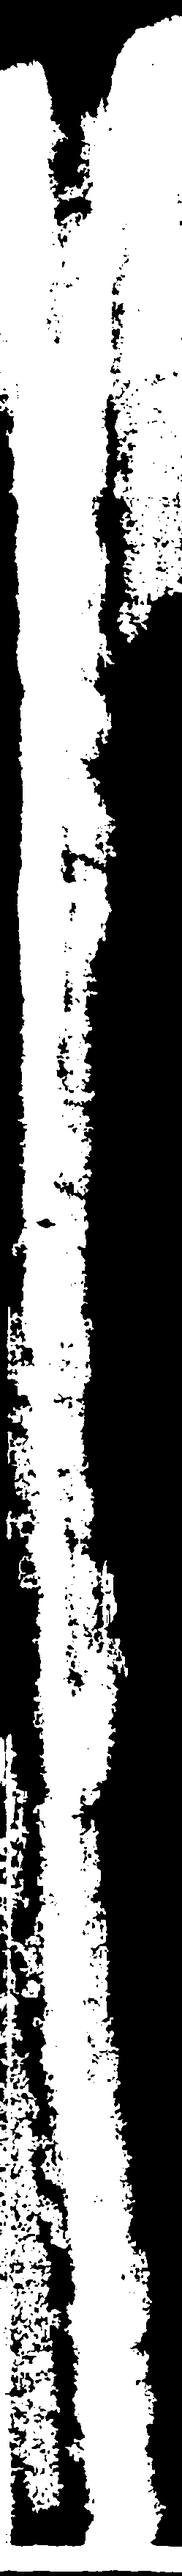
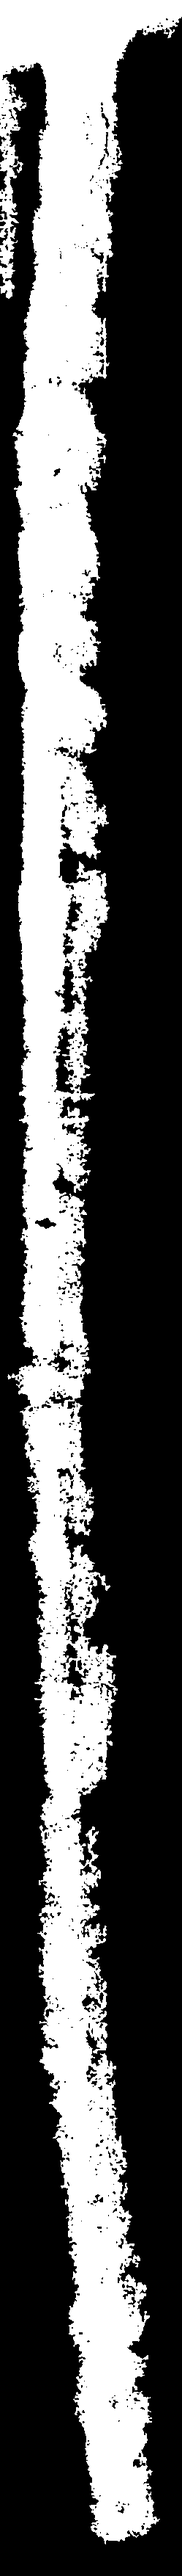
aa

Changed region(s): [[0.0, 0.0, 1.0, 1.0], [0.3092, 0.1243, 0.3373, 0.1553], [0.0843, 0.3417, 0.1124, 0.3728]]

diff --git a/house/227/test228.py b/house/227/test228.py
@@ -70,6 +70,9 @@ from scipy.ndimage.filters import gaussian_filter
 from skimage.filters import threshold_otsu
 from skimage.measure import label
 import cv2
+from skimage.data import astronaut
+from skimage.io import imsave,imread
+import copy
 
 def largestConnectComponent(bw_img):
     '''
@@ -123,12 +126,37 @@ def xdog(im, gamma=0.98, phi=200, eps=-0.1, k=1.6, sigma=0.8, binarize=False):
     imdiff = imdiff.astype('float32')
     return imdiff
 
-if __name__ == '__main__':
-    from skimage.data import astronaut
-    from skimage.io import imsave,imread
-    # im = astronaut()
-    # im = imread('D:\\testALg\\homework\\house\\227\\1-2weld.jpg')
-    im = imread('D:\\testALg\\homework\\house\\227\\1122.jpg')
+def getShape(i2):
+    s_i2 = np.sum(i2)
+    s_h_i2 = np.sum(i2,axis=0)
+    s = 0
+    times = 0
+    for i in s_h_i2:
+        if s>0.5*s_i2:
+            break
+        else:
+            s = s+i
+            times = times + 1 
+
+    # print(times)
+    # # i3 = copy.deepcopy(i2)
+    # print(np.max(i2))
+
+    i2 = np.array(i2,dtype=np.float32)
+
+    # baseLine = i2[:,times] 
+    p1 = i2[:,0:times]
+    p2 = i2[:,times+1:] 
+
+    l1 = np.sum(p1,1)
+    l2 = np.sum(p2,1)
+    res = l1 - l2
+    return res
+
+
+def process(imgPath):
+    im = imread(imgPath)
+
     im = im / 255.0
     im = xdog(im, binarize=True, k=20)
 
@@ -136,9 +164,73 @@ if __name__ == '__main__':
     # img[:,int(0.5*img.shape[1])] = 1
     lcc = largestConnectComponent(img)
     lcc = np.array(lcc,dtype=np.uint8)
-    lcc = lcc*255
+
+    return lcc
 
 
 
-    imsave('out.png', lcc)
+
+if __name__ == '__main__':
+    p1 = 'D:\\testALg\\homework\\house\\227\\1-2weld.jpg'
+    p2 = 'D:\\testALg\\homework\\house\\227\\2-3.jpg'
+
+
+    import cv2
+    import matplotlib.pyplot as plt
+
+    
+
+    
+    # im = astronaut()
+    # im = imread('D:\\testALg\\homework\\house\\227\\1-2weld.jpg')
+    # im = imread('D:\\testALg\\homework\\house\\227\\1122.jpg')
+
+    # i2 = copy.deepcopy(lcc)
+    i1,i2 = process(p1),process(p2)
+
+    
+    # lcc = lcc*255
+
+    r1 = getShape(i1)
+    r2 = getShape(i2)
+
+    from dtw import dtw,accelerated_dtw
+    # import fastDtw
+    import time
+    a1 = time.time()
+
+    r11 = r1[int(0.25*len(r1)):int(0.75*len(r1))]
+    r22 = r2[int(0.25*len(r2)):int(0.75*len(r2))]
+
+
+
+    res = cv2.matchTemplate(r1, r22, cv2.TM_CCOEFF_NORMED)
+    min_val, max_val, _, _ = cv2.minMaxLoc(res)
+
+
+    # ma = lambda r1,r2:np.abs(r1-r2)
+    # d, _,_,_ = accelerated_dtw(r11, r22, dist='euclidean')
+    a2 = time.time()
+    # print(a2-a1)
+    print(max_val)
+    # print(min_val)
+
+    # print(d)
+    
+    y = r1
+    x = np.linspace(1, len(y), len(y))
+    plt.plot(x, y, ls="-", lw=2, label="plot figure")
+
+    plt.legend()
+
+    plt.show()
+
+
+
+
+
+ 
+
+
+    # imsave('out.png', lcc)
 

diff --git a/house/227/fastDtw.py b/house/227/fastDtw.py
@@ -1,0 +1,51 @@
+'''
+@lanhuage: python
+@Descripttion: 
+@version: beta
+@Author: xiaoshuyui
+@Date: 2020-03-25 11:26:58
+@LastEditors: xiaoshuyui
+@LastEditTime: 2020-03-25 11:27:49
+'''
+
+
+from numpy import array, zeros, argmin, inf, equal
+from scipy.spatial.distance import cdist
+
+
+def _traceback(D):
+    i, j = array(D.shape) - 2
+    p, q = [i], [j]
+
+
+
+def fastdtw(x, y, dist):
+    """
+    Computes Dynamic Time Warping (DTW) of two sequences in a faster way.
+    Instead of iterating through each element and calculating each distance,
+    this uses the cdist function from scipy (https://docs.scipy.org/doc/scipy/reference/generated/scipy.spatial.distance.cdist.html)
+    :param array x: N1*M array
+    :param array y: N2*M array
+    :param string or func dist: distance parameter for cdist. When string is given, cdist uses optimized functions for the distance metrics.
+    If a string is passed, the distance function can be 'braycurtis', 'canberra', 'chebyshev', 'cityblock', 'correlation', 'cosine', 'dice', 'euclidean', 'hamming', 'jaccard', 'kulsinski', 'mahalanobis', 'matching', 'minkowski', 'rogerstanimoto', 'russellrao', 'seuclidean', 'sokalmichener', 'sokalsneath', 'sqeuclidean', 'wminkowski', 'yule'.
+    Returns the minimum distance, the cost matrix, the accumulated cost matrix, and the wrap path.
+    """
+    assert len(x)
+    assert len(y)
+    r, c = len(x), len(y)
+    D0 = zeros((r + 1, c + 1))
+    D0[0, 1:] = inf
+    D0[1:, 0] = inf
+    D1 = D0[1:, 1:]
+    D0[1:,1:] = cdist(x,y,dist)
+    C = D1.copy()
+    for i in range(r):
+        for j in range(c):
+            D1[i, j] += min(D0[i, j], D0[i, j+1], D0[i+1, j])
+    if len(x)==1:
+        path = zeros(len(y)), range(len(y))
+    elif len(y) == 1:
+        path = range(len(x)), zeros(len(x))
+    else:
+        path = _traceback(D0)
+    return D1[-1, -1] / sum(D1.shape), C, D1, path

diff --git a/house/227/test227.py b/house/227/test227.py
@@ -1,3 +1,12 @@
+'''
+@lanhuage: python
+@Descripttion: 
+@version: beta
+@Author: xiaoshuyui
+@Date: 2020-02-27 17:01:01
+@LastEditors: xiaoshuyui
+@LastEditTime: 2020-03-24 17:03:28
+'''
 import cv2
 import numpy as np
 import os
@@ -54,15 +63,12 @@ def FT(src):
     # salient_map[salient_map<200] = 255
     # salient_map[salient_map!=255] = 0
 
-
-
-
-    
     return salient_map
 
 
 
 if __name__ == "__main__":
+    import copy
     
     # i = cv2.imread(image_ROOT+os.sep+"4-5.jpg")
     i = cv2.imread(BASE_DIR+os.sep+"1-2weld.jpg")
@@ -71,5 +77,38 @@ if __name__ == "__main__":
     # i = i.astype(np.uint8)
 
     i2 = FT(i)
+    s_i2 = np.sum(i2)
+    s_h_i2 = np.sum(i2,axis=0)
+    s = 0
+    times = 0
+    for i in s_h_i2:
+        if s>0.5*s_i2:
+            break
+        else:
+            s = s+i
+            times = times + 1 
+
+    print(times)
+
+    # i3 = copy.deepcopy(i2)
+
+    print(np.max(i2))
+
+    i3 = np.array(i3,dtype=np.float32)
+
+    # baseLine = i2[:,times] 
+    p1 = i3[:,0:times]/255
+    p2 = i3[:,times+1:] /255
+
+    l1 = np.sum(p1,1)
+    l2 = np.sum(p2,1)
+    print(len(l1-l2))
+
+    print(l1 - l2)
+
+
+
+
+
 
     cv2.imwrite(BASE_DIR+os.sep+"1122.jpg",i2)

diff --git a/MyList/readme.md b/MyList/readme.md
@@ -1,0 +1,10 @@
+<!--
+ * @lanhuage: python
+ * @Descripttion: 
+ * @version: beta
+ * @Author: xiaoshuyui
+ * @Date: 2020-03-25 09:41:04
+ * @LastEditors: xiaoshuyui
+ * @LastEditTime: 2020-03-25 09:41:29
+ -->
+自定义list对象，闹着玩的.
